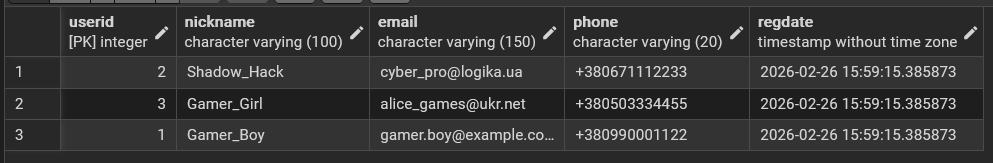
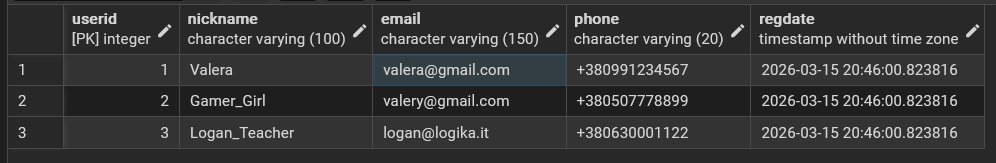
Edit: edit lab2

diff --git a/lab_2/README.md b/lab_2/README.md
@@ -33,8 +33,7 @@
 
 #### Роздруківка коду для створення самої діаграми:
 ```Sql
--- 1. Таблиця Користувачів
-CREATE TABLE Users (
+ CREATE TABLE Users (
     UserID SERIAL PRIMARY KEY,
     Nickname VARCHAR(100) NOT NULL,
     Email VARCHAR(150) NOT NULL UNIQUE,
@@ -42,64 +41,140 @@ CREATE TABLE Users (
     RegDate TIMESTAMP DEFAULT CURRENT_TIMESTAMP
 );
 
--- 2. Таблиця Ігор
+CREATE TABLE Points (
+    UserID INTEGER PRIMARY KEY REFERENCES Users(UserID) ON DELETE CASCADE,
+    TotalPoints INTEGER DEFAULT 0 CHECK (TotalPoints >= 0)
+);
+
+CREATE TABLE Genres (
+    GenreID SERIAL PRIMARY KEY,
+    GenreName VARCHAR(50) NOT NULL UNIQUE
+);
+
+CREATE TABLE Developers (
+    DevID SERIAL PRIMARY KEY,
+    DevName VARCHAR(150) NOT NULL,
+    UserID INTEGER REFERENCES Users(UserID) ON DELETE SET NULL
+);
+
+CREATE TABLE Publishers (
+    PubID SERIAL PRIMARY KEY,
+    PubName VARCHAR(150) NOT NULL,
+    UserID INTEGER REFERENCES Users(UserID) ON DELETE SET NULL
+);
+
 CREATE TABLE Games (
     GameID SERIAL PRIMARY KEY,
     Title VARCHAR(200) NOT NULL,
     Description TEXT,
     ReleaseDate DATE,
-    Rating INTEGER
+    AgeRating VARCHAR(10),
+    BasePrice DECIMAL(10, 2) DEFAULT 0.0 CHECK (BasePrice >= 0)
 );
 
--- 3. Таблиця Замовлень
+CREATE TABLE GameGenres (
+    GameID INTEGER REFERENCES Games(GameID) ON DELETE CASCADE,
+    GenreID INTEGER REFERENCES Genres(GenreID) ON DELETE CASCADE,
+    PRIMARY KEY (GameID, GenreID)
+);
+
+CREATE TABLE GameDevelopers (
+    GameID INTEGER REFERENCES Games(GameID) ON DELETE CASCADE,
+    DevID INTEGER REFERENCES Developers(DevID) ON DELETE CASCADE,
+    PRIMARY KEY (GameID, DevID)
+);
+
+CREATE TABLE GamePublishers (
+    GameID INTEGER REFERENCES Games(GameID) ON DELETE CASCADE,
+    PubID INTEGER REFERENCES Publishers(PubID) ON DELETE CASCADE,
+    PRIMARY KEY (GameID, PubID)
+);
+
+
 CREATE TABLE Orders (
     OrderID SERIAL PRIMARY KEY,
-    UserID INTEGER NOT NULL REFERENCES Users(UserID),
+    UserID INTEGER NOT NULL REFERENCES Users(UserID) ON DELETE CASCADE,
     OrderDate TIMESTAMP DEFAULT CURRENT_TIMESTAMP,
     TotalAmount DECIMAL(10, 2) NOT NULL CHECK (TotalAmount >= 0)
 );
 
--- 4. Таблиця Елементів замовлення
 CREATE TABLE OrderItems (
     OrderItemID SERIAL PRIMARY KEY,
-    OrderID INTEGER NOT NULL REFERENCES Orders(OrderID),
+    OrderID INTEGER NOT NULL REFERENCES Orders(OrderID) ON DELETE CASCADE,
     GameID INTEGER NOT NULL REFERENCES Games(GameID),
-    PriceAtPurchase DECIMAL(10, 2) NOT NULL CHECK (PriceAtPurchase > 0)
+    PriceAtPurchase DECIMAL(10, 2) NOT NULL CHECK (PriceAtPurchase >= 0)
+);
+
+CREATE TABLE Library (
+    UserID INTEGER REFERENCES Users(UserID) ON DELETE CASCADE,
+    GameID INTEGER REFERENCES Games(GameID) ON DELETE CASCADE,
+    PlayTimeHours INTEGER DEFAULT 0 CHECK (PlayTimeHours >= 0),
+    PurchaseDate TIMESTAMP DEFAULT CURRENT_TIMESTAMP,
+    PRIMARY KEY (UserID, GameID)
+);
+
+CREATE TABLE Friends (
+    User1ID INTEGER REFERENCES Users(UserID) ON DELETE CASCADE,
+    User2ID INTEGER REFERENCES Users(UserID) ON DELETE CASCADE,
+    Status VARCHAR(20) DEFAULT 'accepted',
+    PRIMARY KEY (User1ID, User2ID),
+    CHECK (User1ID != User2ID)
+
+);
+
+CREATE TABLE Reviews (
+    ReviewID SERIAL PRIMARY KEY,
+    UserID INTEGER REFERENCES Users(UserID) ON DELETE CASCADE,
+    GameID INTEGER REFERENCES Games(GameID) ON DELETE CASCADE,
+    Comment TEXT,
+    Rating INTEGER CHECK (Rating BETWEEN 1 AND 5),
+    ReviewDate TIMESTAMP DEFAULT CURRENT_TIMESTAMP,
+    UNIQUE(UserID, GameID)
 );
 ```
 
 #### Далі були введені дані для відповідної таблиці:
 ```Sql
--- Дані для Users
 INSERT INTO Users (Nickname, Email, Phone) VALUES
-('Gamer_Boy', 'gamer.boy@example.com', '+380990001122'),
-('Shadow_Hack', 'cyber_pro@logika.ua', '+380671112233'),
-('Gamer_Girl', 'alice_games@ukr.net', '+380503334455');
+('Valera', 'valera@gmail.com', '+380991234567'),
+('Gamer_Girl', 'valery@gmail.com', '+380507778899'),
+('Logan_Teacher', 'logan@logika.it', '+380630001122');
 
--- Дані для Games
-INSERT INTO Games (Title, Description, ReleaseDate, Rating) VALUES
-('Minecraft', 'Sandbox survival game', '2011-11-18', 7),
-('Brawl Stars', 'Mobile battle royale', '2018-12-12', 12),
-('Cyberpunk 2077', 'Sci-fi RPG', '2020-12-10', 18);
+INSERT INTO Points (UserID, TotalPoints) VALUES (1, 200), (2, 500), (3, 0);
 
--- Дані для Orders (Користувач 1 зробив два замовлення)
-INSERT INTO Orders (UserID, TotalAmount) VALUES
-(1, 1200.00),
-(1, 450.00),
-(2, 2000.00);
+INSERT INTO Genres (GenreName) VALUES ('RPG'), ('Action'), ('Shooter'), ('Strategy');
 
--- Дані для OrderItems
-INSERT INTO OrderItems (OrderID, GameID, PriceAtPurchase) VALUES
-(1, 1, 400.00),
-(1, 2, 800.00),
-(2, 1, 450.00);
+INSERT INTO Developers (DevName) VALUES ('CD Projekt Red'), ('Ubisoft'), ('Valve');
+INSERT INTO Publishers (PubName) VALUES ('CD Projekt'), ('Ubisoft Entertainment'), ('Steam');
+
+INSERT INTO Games (Title, Description, ReleaseDate, AgeRating, BasePrice) VALUES
+('The Witcher 3', 'Пригоди відьмака', '2015-05-19', '18+', 600.00),
+('Cyberpunk 2077', 'Майбутнє вже тут', '2020-12-10', '18+', 900.00),
+('Assassin’s Creed II', 'Класика про Еціо', '2009-11-17', '18+', 300.00);
+
+INSERT INTO GameGenres (GameID, GenreID) VALUES (1, 1), (2, 1), (3, 2);
+INSERT INTO GameDevelopers (GameID, DevID) VALUES (1, 1), (2, 1), (3, 2);
+
+INSERT INTO Orders (UserID, TotalAmount) VALUES (1, 600.00);
+INSERT INTO OrderItems (OrderID, GameID, PriceAtPurchase) VALUES (1, 1, 600.00);
+INSERT INTO Library (UserID, GameID, PlayTimeHours) VALUES (1, 1, 150);
+
+INSERT INTO Friends (User1ID, User2ID) VALUES (1, 2);
+INSERT INTO Reviews (UserID, GameID, Comment, Rating) VALUES
+(1, 1, 'Шедевр на віки!', 5),
+(2, 2, 'Круто, але багів багато було', 4);
 ```
 
 #### Результат роботи в PostgreSQL
 ![erd](docs/image.png)
-![erd](docs/image4.png)
-![erd](docs/image5.png)
-![erd](docs/image3.png)
+![games](docs/games.png)
+![orders](docs/orders.png)
+![devs](docs/devs.png)
+![points](docs/points.png)
+![genres](docs/genres.png)
+![library](docs/library.png)
+![publishers](docs/publishers.png)
+![reviews](docs/reviews.png)
 
 ## Висновок
 При виконанні цієї роботи ми навчилися перетворювати ER діаграми у повноцінні бази даних. При роботі з ними був встановлений та на базовому рівні опанований Docker. А також ми ознайомилися з основами SQL.
